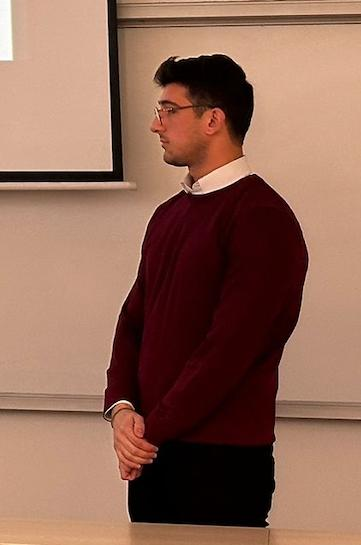
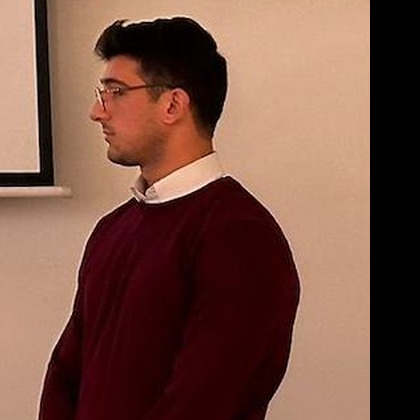
Update title to AI Engineer | RAG Architectures | Control & Machine Learning Systems
- Hero role line updated
- Mobile avatar subtitle updated (AI Engineer · RAG · ML Systems)
- daniel.jpg re-cropped to 420x420 square with face centered (1.33x upscale)
- og.jpg regenerated with new title

diff --git a/index.html b/index.html
@@ -543,14 +543,14 @@ footer::before{content:"";position:absolute;top:-1px;left:0;right:0;height:1px;
     <div>
       <div class="hero-avatar-mobile rv in">
         <div class="av"><img src="daniel.jpg" alt="Daniel Yamanoğlu" loading="eager" width="64" height="64" /></div>
-        <div class="nm">Daniel Yamanoğlu<em>AI Engineer · RAG</em></div>
+        <div class="nm">Daniel Yamanoğlu<em>AI Engineer · RAG · ML Systems</em></div>
       </div>
       <div class="hi rv in">— <span class="a">building</span> intelligent systems</div>
       <h1 class="name rv in">
         <span class="l">Daniel</span>
         <span class="l">Yamanoğlu</span>
       </h1>
-      <div class="role rv in"><span class="ac">AI Engineer</span><span class="sep">·</span>Context Engineering<span class="sep">·</span>RAG Architectures</div>
+      <div class="role rv in"><span class="ac">AI Engineer</span><span class="sep">|</span>RAG Architectures<span class="sep">|</span>Control &amp; Machine Learning Systems</div>
       <div class="loc rv in"><span class="pin">@</span> Istanbul, Turkey <span style="color:var(--dim-2)">—</span> Remote / Global</div>
       <p class="lede rv">
         Control &amp; Automation Engineering graduate with a foundation in analytical systems thinking.